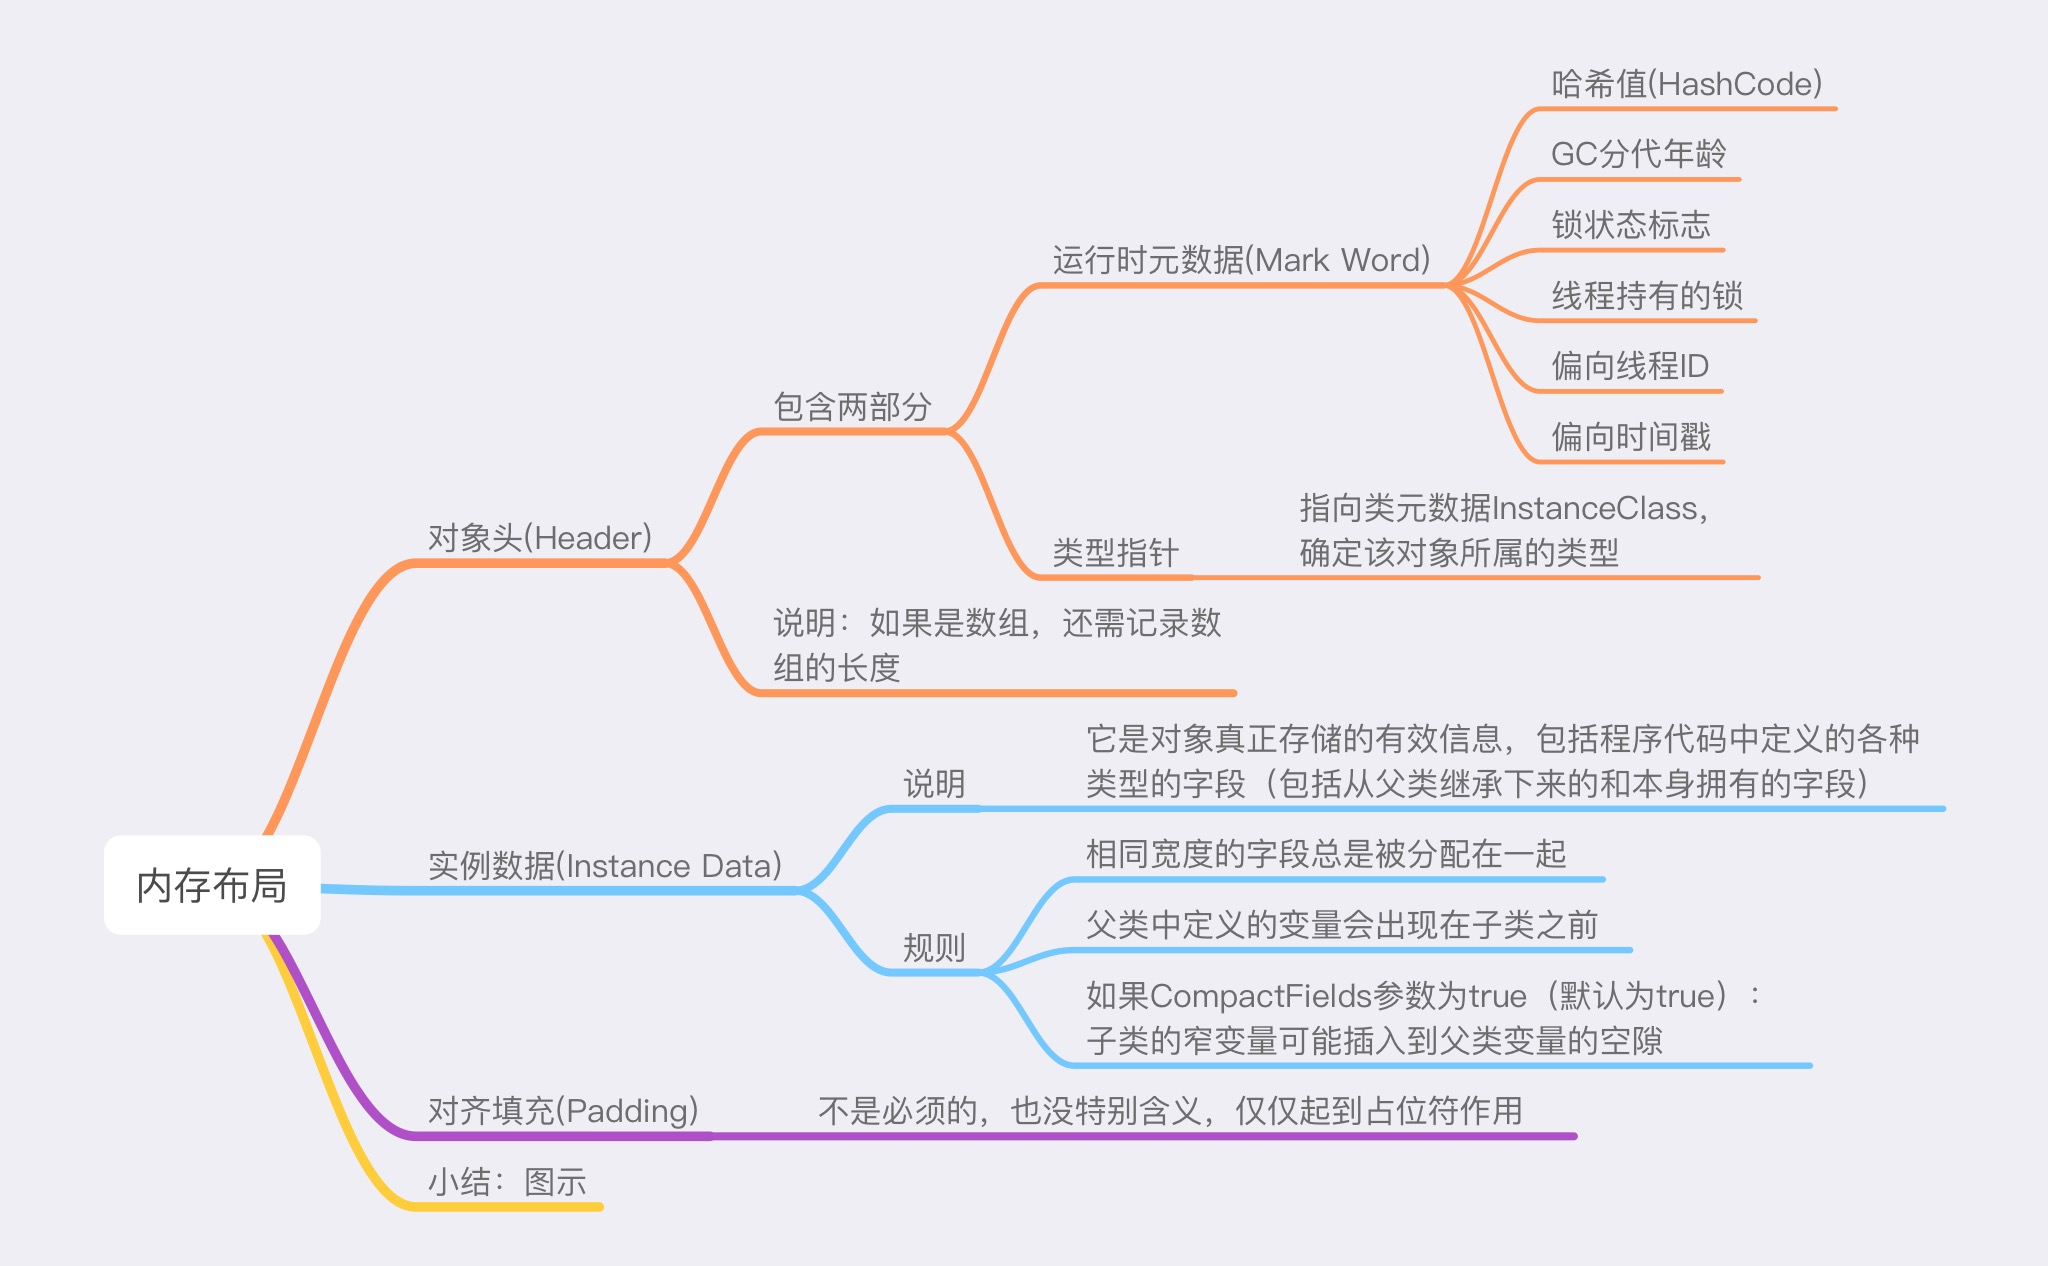
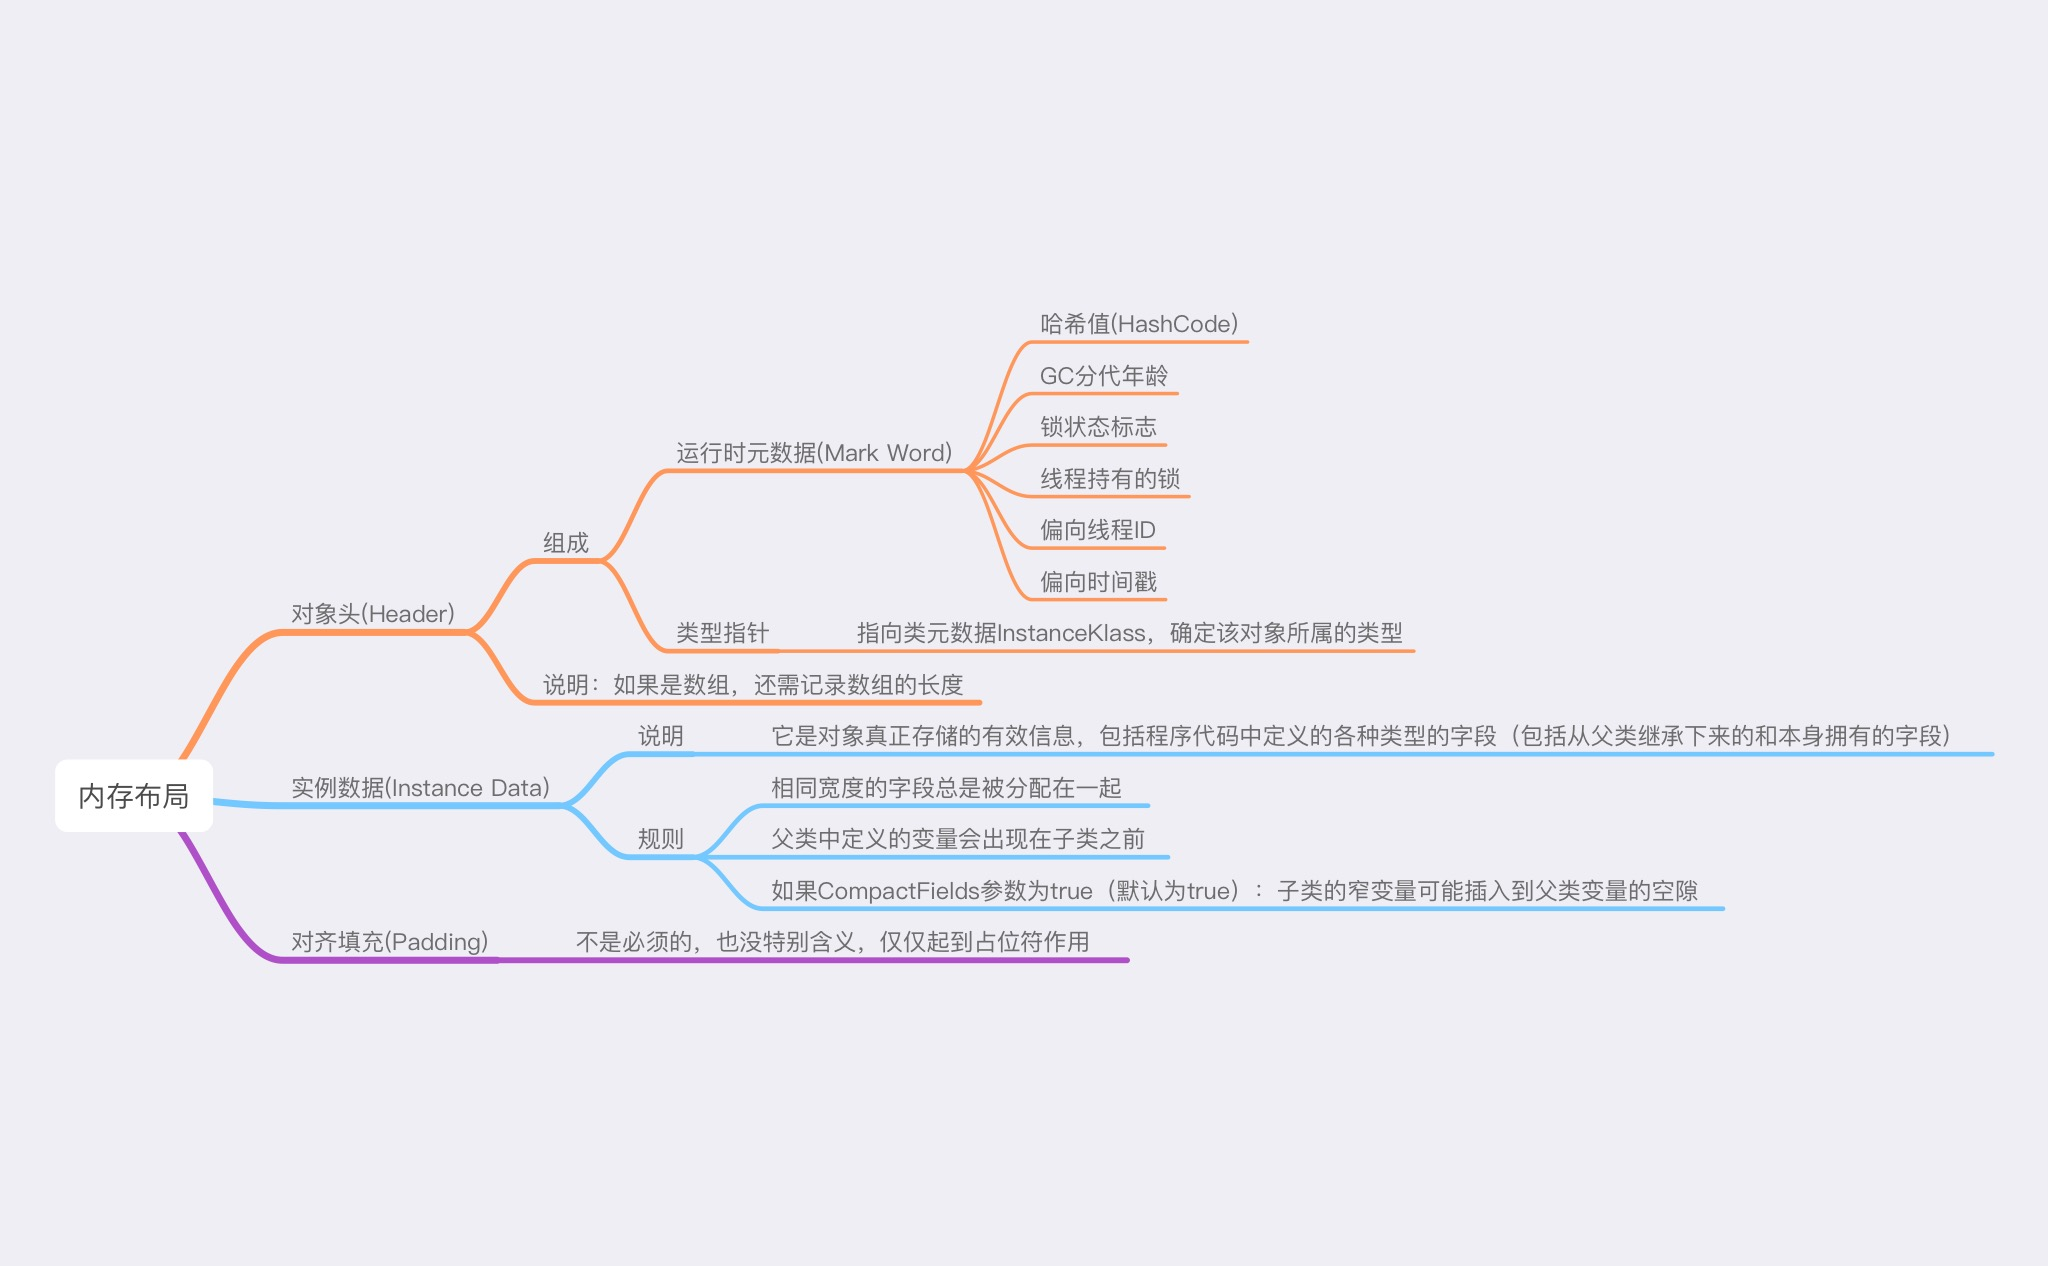
: 2023-01-06 00:32:53

Changed region(s): [[0.0312, 0.0616, 0.9688, 0.9858]]

diff --git a/source/_posts/编程语言/Java/Java语言/JVM/第2章 Java内存区域与内存溢出异常/2.4 对象探秘/2.4.2 对象的内存布局.md b/source/_posts/编程语言/Java/Java语言/JVM/第2章 Java内存区域与内存溢出异常/2.4 对象探秘/2.4.2 对象的内存布局.md
@@ -6,4 +6,43 @@ tags: []
 
 也是先来看张图：
 
-<img src=" https://coachhe-1305181419.cos.ap-guangzhou.myqcloud.com/%E7%A8%8B%E5%BA%8F%E5%91%98/%E5%B7%A5%E5%85%B7/git/20230106002018.png" width = "100%" />
+<img src=" https://coachhe-1305181419.cos.ap-guangzhou.myqcloud.com/%E7%A8%8B%E5%BA%8F%E5%91%98/%E5%B7%A5%E5%85%B7/git/20230106003154.png" width = "100%" />
+
+在 HotSpot 虚拟机中，对象在堆内存理中的存储布局可以划分为三个部分
+- 对象头 (Header)
+- 实例数据 (Instance Data)
+- 对齐填充 (Padding)
+
+# 对象头
+
+对象头由两部分组成：
+
+1. 运行时元数据
+2. 类型指针
+
+## 运行时元数据 (Mark Word)
+
+1. 哈希值
+2. GC 分代年龄
+3. 锁状态标志
+4. 线程持有的锁
+5. 偏向线程 ID
+6. 偏向时间戳
+
+## 类型指针
+
+指向类元数据 InstanceKlass，确定该对象所属的类型
+
+## 说明
+
+如果是数组，还需要记录数组的长度
+
+# 实例数据
+
+
+
+
+
+
+
+

diff --git a/source/_posts/编程语言/Java/Java语言/JVM/第2章 Java内存区域与内存溢出异常/2.4 对象探秘/2.4.1 对象的创建.md b/source/_posts/编程语言/Java/Java语言/JVM/第2章 Java内存区域与内存溢出异常/2.4 对象探秘/2.4.1 对象的创建.md
@@ -11,13 +11,9 @@ categories:
 date: 2022-12-19 11:01:02
 ---
 
-# 总论
-
-<img src=" https://coachhe-1305181419.cos.ap-guangzhou.myqcloud.com/%E7%A8%8B%E5%BA%8F%E5%91%98/%E5%B7%A5%E5%85%B7/git/20230105234518.png" width = "100%" />
-
-下面来具体展开阐述上面的图
-
 # 创建对象的方式
+
+<img src=" https://coachhe-1305181419.cos.ap-guangzhou.myqcloud.com/%E7%A8%8B%E5%BA%8F%E5%91%98/%E5%B7%A5%E5%85%B7/git/20230106002404.png" width = "100%" />
 
 创建对象一共有 6 种方式，分别是：
 
@@ -33,6 +29,8 @@ date: 2022-12-19 11:01:02
 接下来我们来描述一下使用 `new` 关键字创建一个对象所经历的步骤
 
 # 创建对象的步骤
+
+<img src=" https://coachhe-1305181419.cos.ap-guangzhou.myqcloud.com/%E7%A8%8B%E5%BA%8F%E5%91%98/%E5%B7%A5%E5%85%B7/git/20230106002430.png" width = "100%" />
 
 ## 1. 类的加载
 
